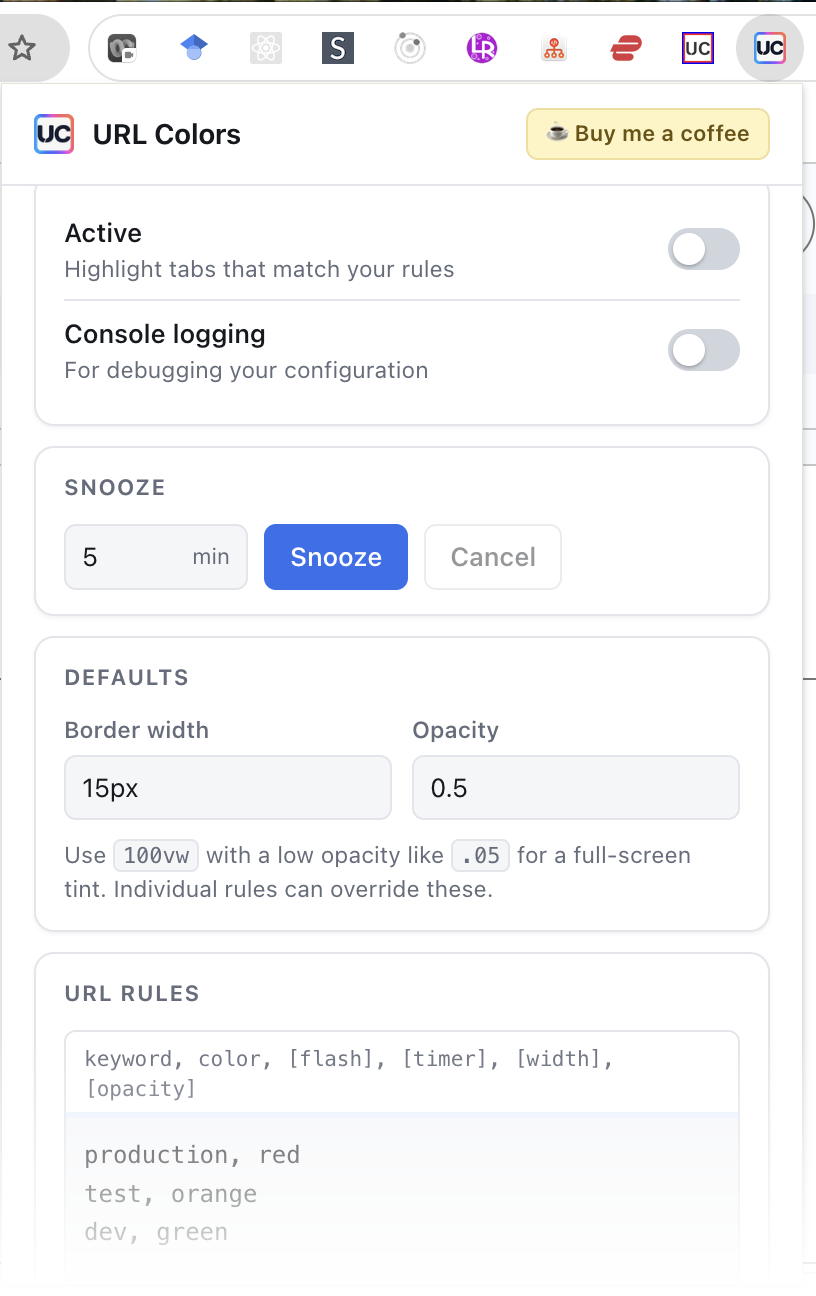
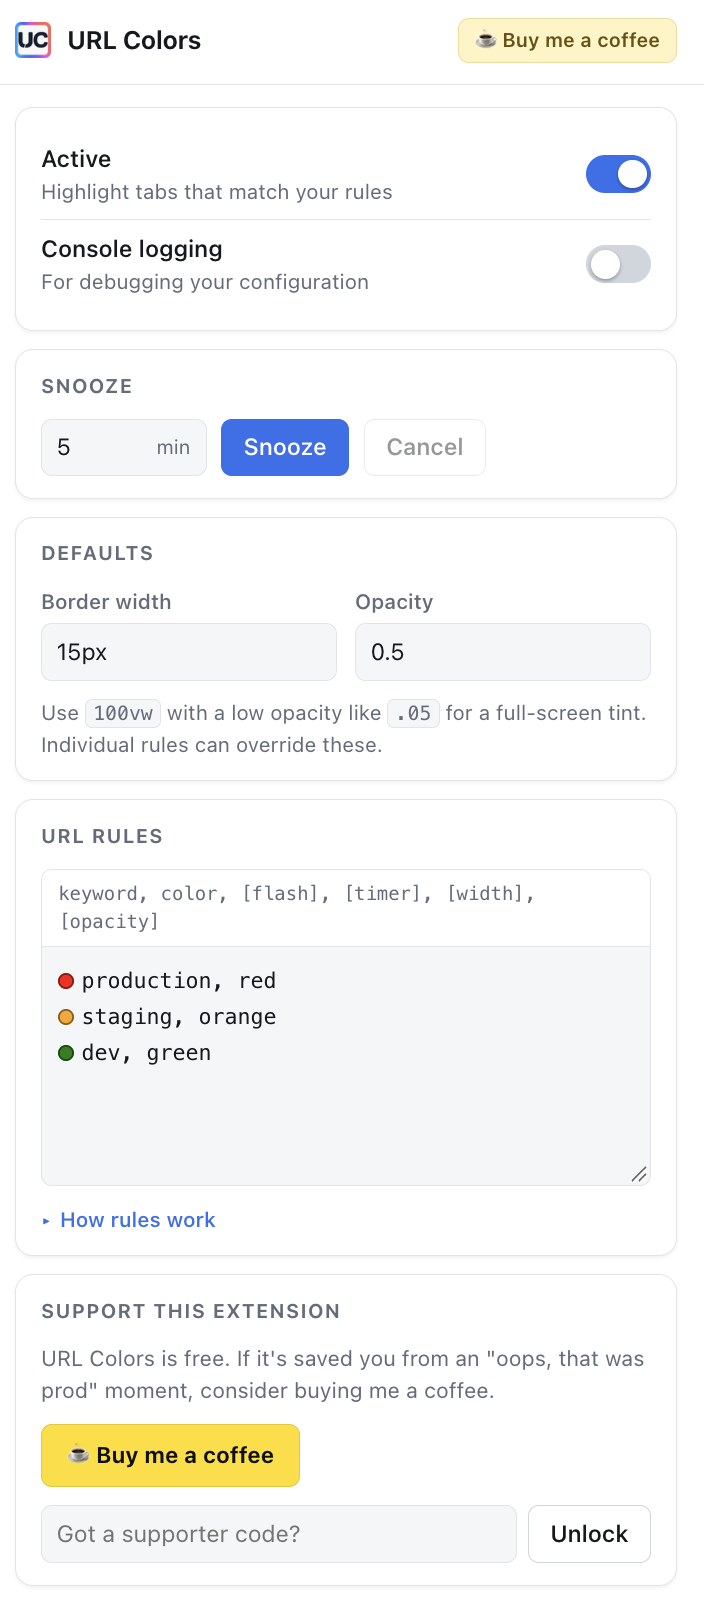
Use a full-height popup screenshot showing the color dots
Replaces the cropped capture, which cut off mid-rules and had to be faded at
the bottom to disguise it. The new one is the whole popup in a single frame
and shows the per-rule color dots added in 3.1.0.

diff --git a/docs/index.html b/docs/index.html
@@ -621,8 +621,8 @@
               <img
                 class="popup-shot"
                 src="assets/popup.png"
-                width="816"
-                height="1296"
+                width="704"
+                height="1608"
                 alt="The URLColors popup showing the Active and Console logging toggles, a Snooze control, default border width and opacity fields, and a list of URL rules with a color preview dot beside each one."
               />
             </div>
